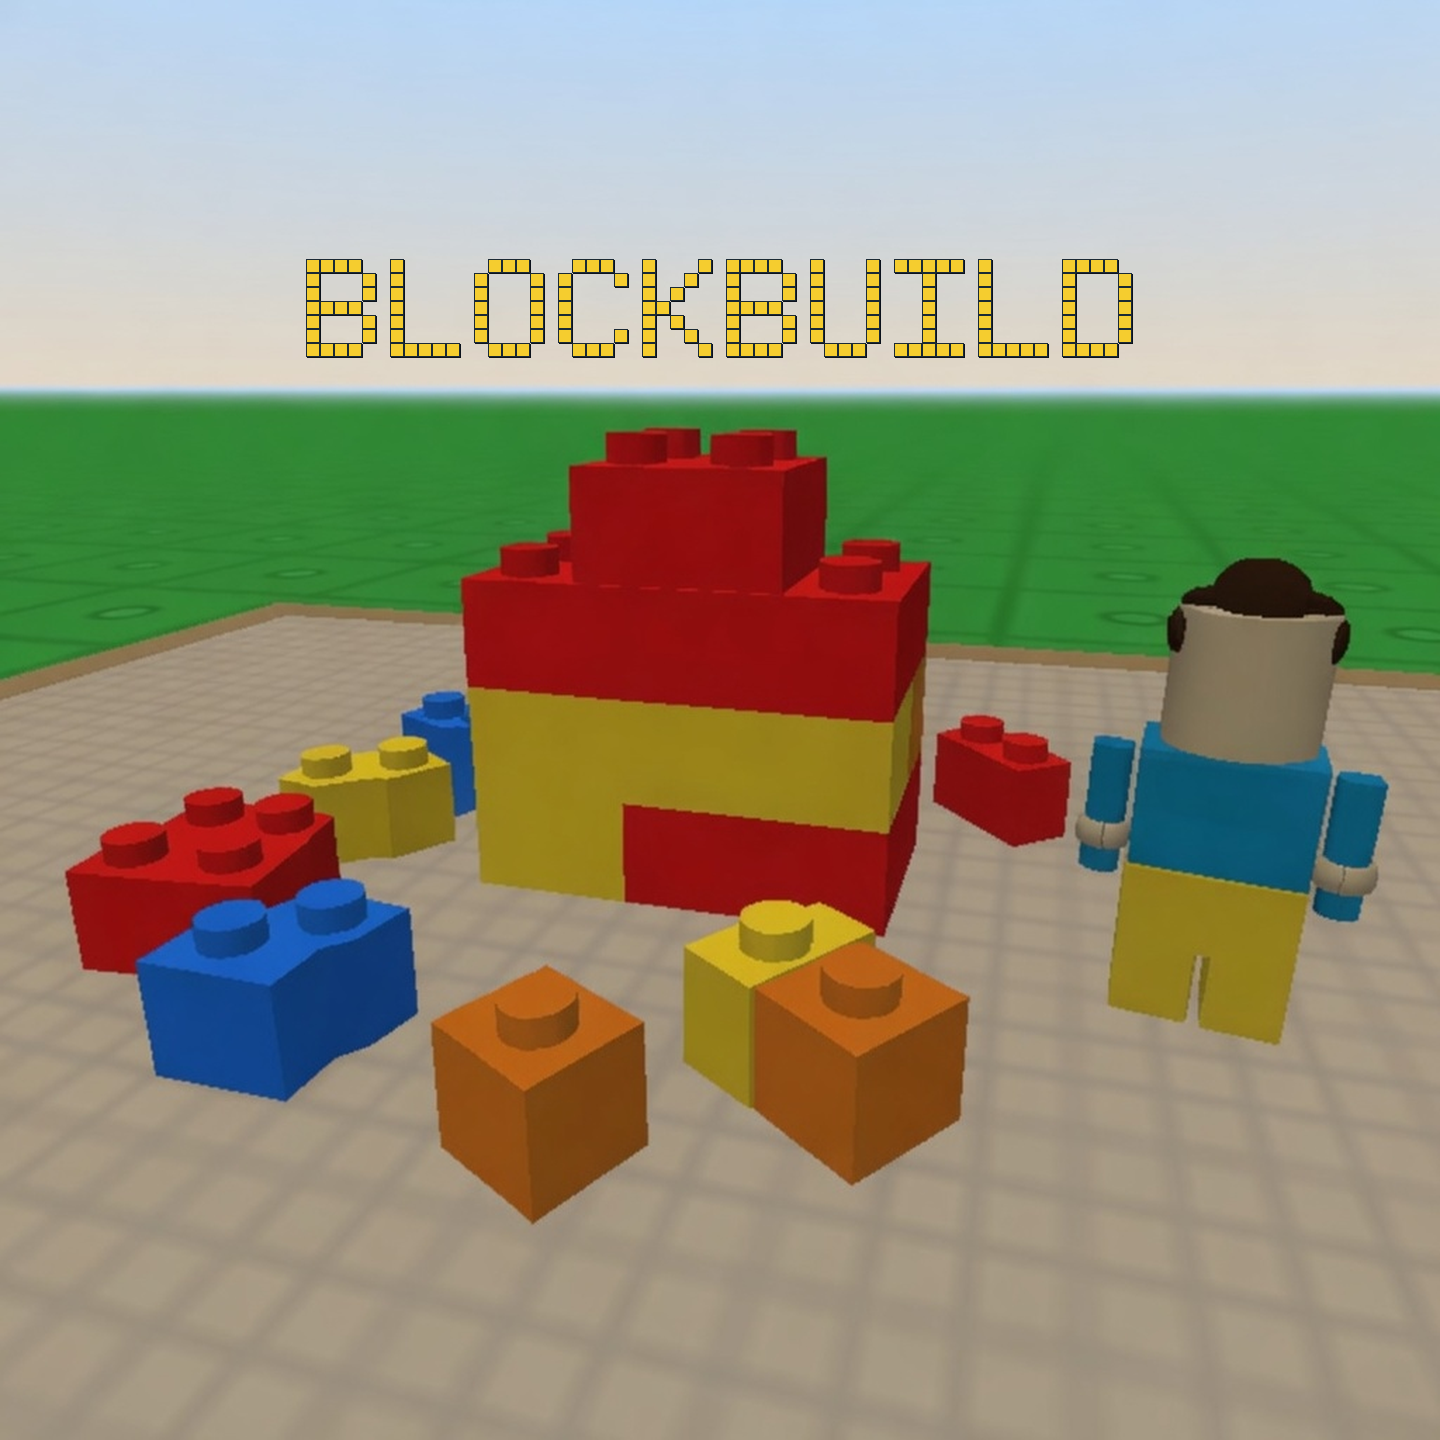
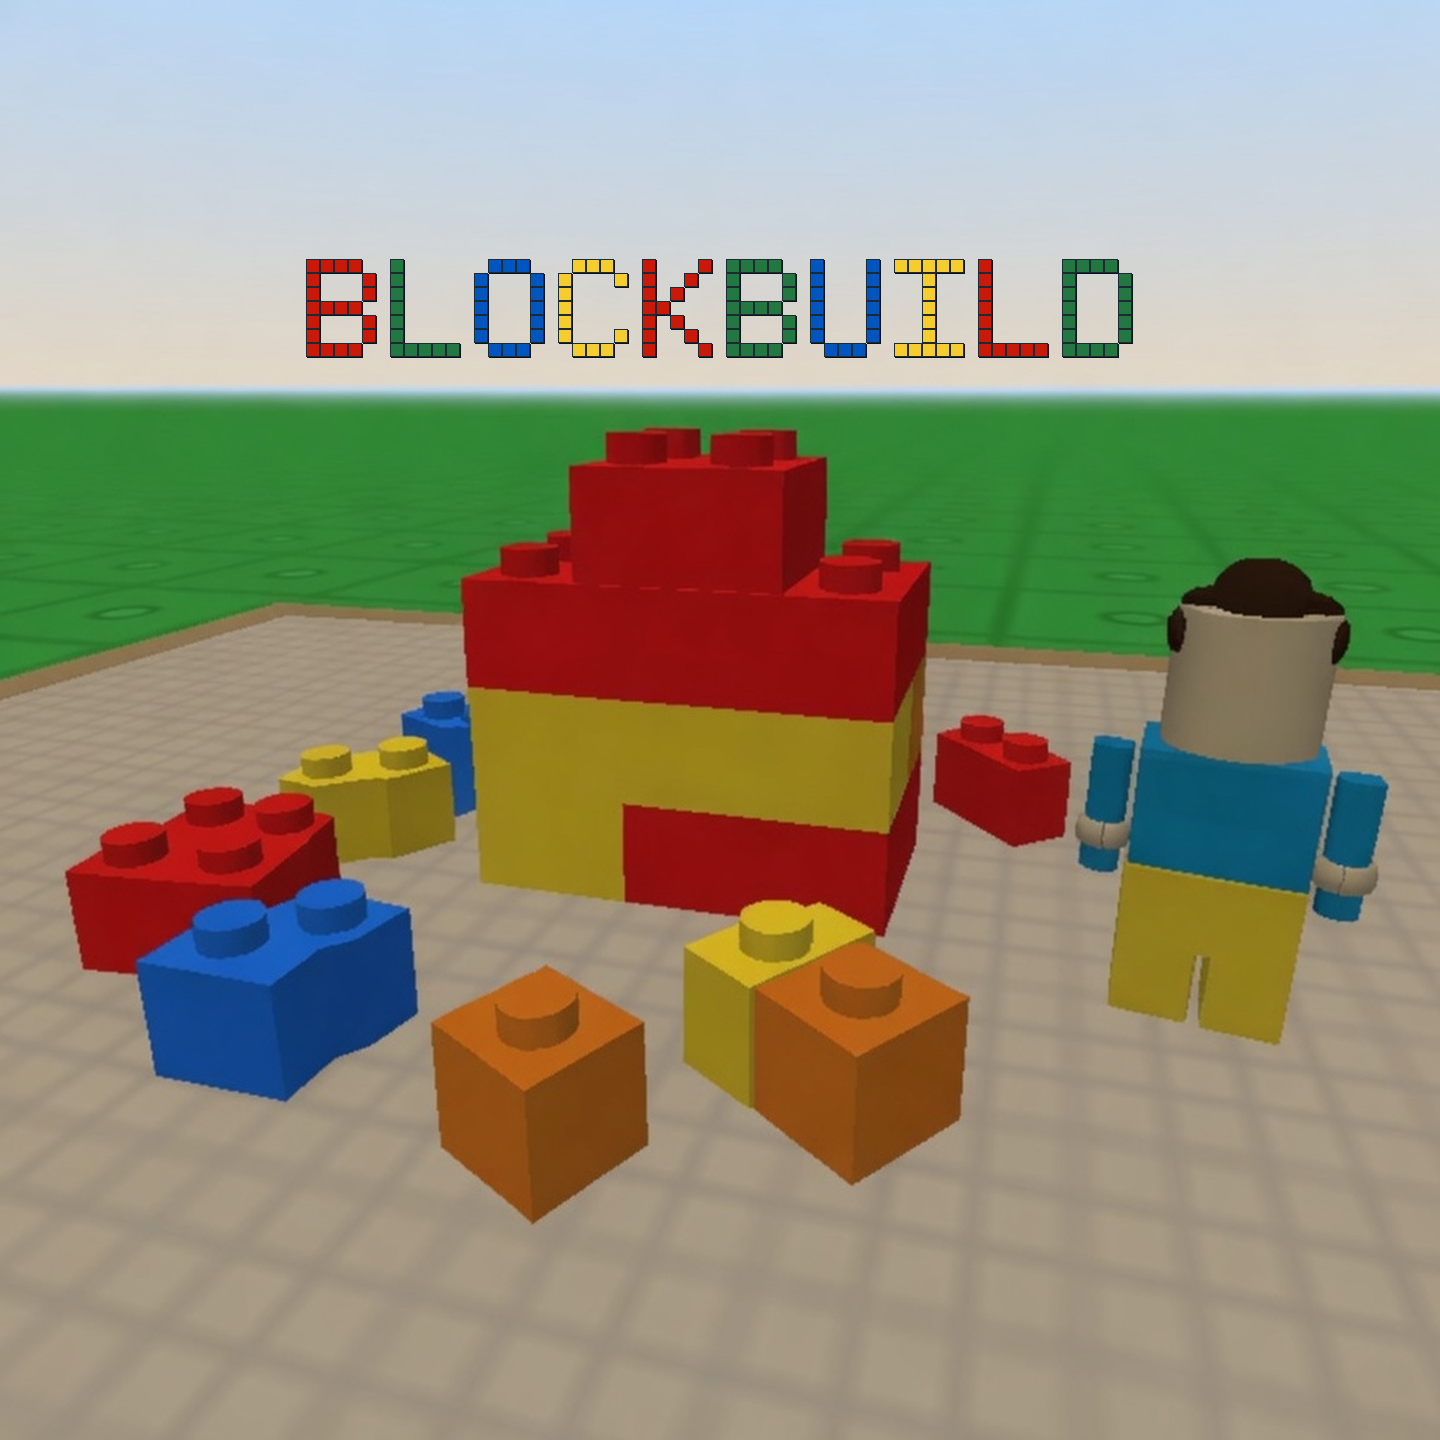
Color Blockbuild cover title red green blue yellow.

Changed region(s): [[0.4375, 0.1562, 0.625, 0.25], [0.1875, 0.1562, 0.375, 0.25], [0.6562, 0.1562, 0.8125, 0.25]]

diff --git a/public/bbqst-h8k2m9q4/store/compose_art.py b/public/bbqst-h8k2m9q4/store/compose_art.py
@@ -11,6 +11,12 @@ DL_DIR = Path(r"C:\Users\parto\Downloads\blockbuild-store-assets")
 DL_ROOT = Path(r"C:\Users\parto\Downloads")
 ICON_SRC = ROOT.parent / "icons" / "icon-512.png"
 TITLE = "Blockbuild"
+LETTER_COLORS = [
+    (201, 26, 9),    # red
+    (35, 120, 65),   # green
+    (0, 85, 191),    # blue
+    (245, 205, 47),  # yellow
+]
 
 # 5x7 block glyphs. 1 = fill. Title is drawn in all-caps so the word stays Blockbuild.
 GLYPHS = {
@@ -58,8 +64,12 @@ def render_block_text(text: str, cell: int, fill=(245, 205, 47), outline=(27, 42
 
     ox = cell
     oy = cell
+    color_i = 0
     for ch in text.upper():
         g = GLYPHS.get(ch, GLYPHS[" "])
+        letter_fill = fill if ch == " " else LETTER_COLORS[color_i % len(LETTER_COLORS)]
+        if ch != " ":
+            color_i += 1
         for r, row in enumerate(g):
             for c, bit in enumerate(row):
                 if bit != "1":
@@ -73,7 +83,7 @@ def render_block_text(text: str, cell: int, fill=(245, 205, 47), outline=(27, 42
                     for xx in range(inset, cell - inset):
                         x, y = sx + xx, sy + yy
                         if 0 <= x < img.size[0] and 0 <= y < img.size[1]:
-                            px[x, y] = (*fill, 255)
+                            px[x, y] = (*letter_fill, 255)
         ox += letter_w * cell
     bbox = img.getbbox()
     return img.crop(bbox) if bbox else img
